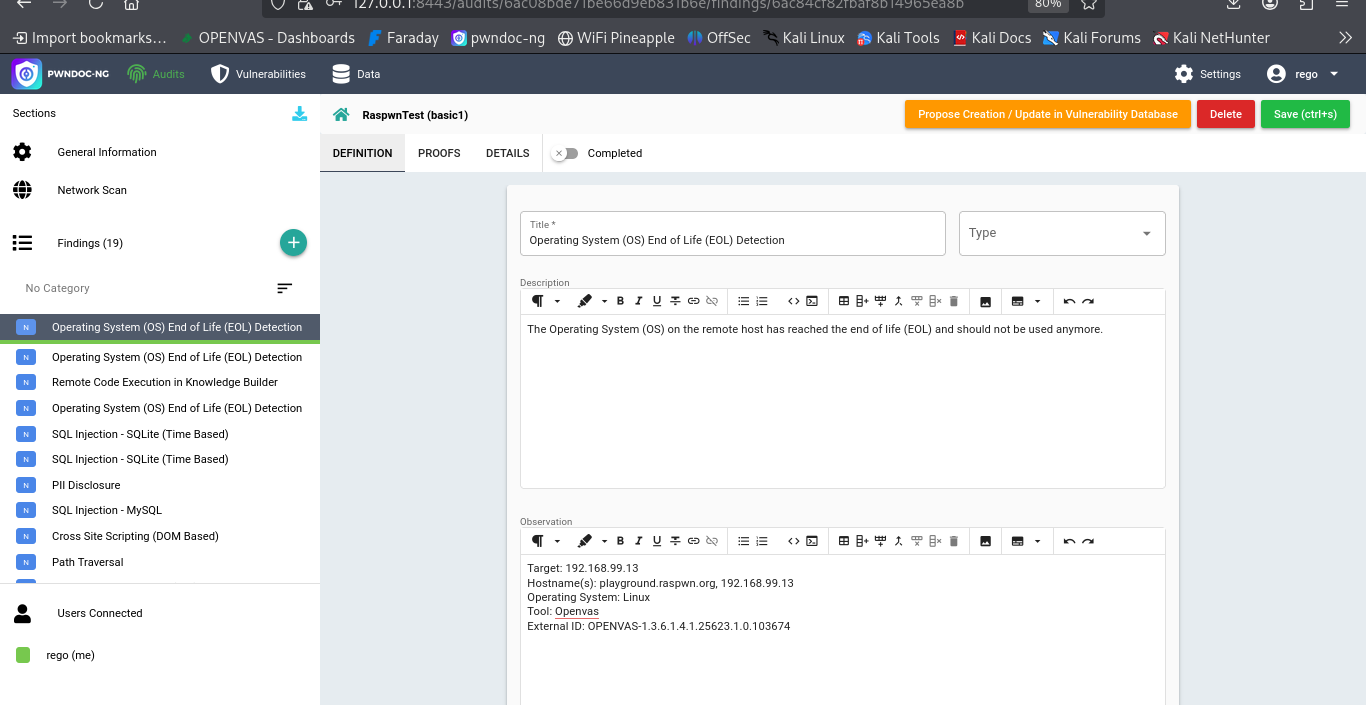
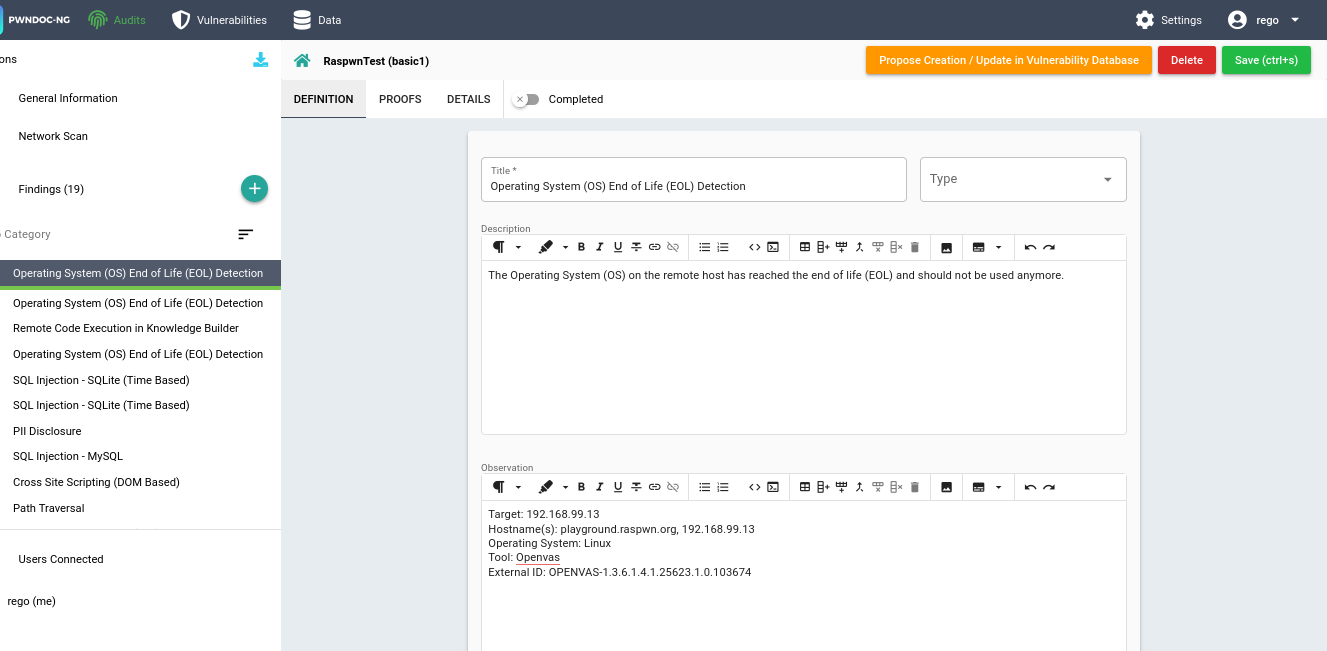
cleanup screenshots. Polish readme markup.

diff --git a/README.md b/README.md
@@ -22,11 +22,11 @@ demonstration.
 - Import your vulnerability scans and findings into FaradayCE.
 ![Faraday Workspace with vulnerabilities](./screenshots/1-faraday-project.png)
 - Update the necessary feilds such as complexity, impact, and http request/header fields.
-![Faraday Vulnerabilities modified](./5-faraday-vulnrefinement.png)
+![Faraday Vulnerabilities modified](./screenshots/5-faraday-vulnrefinement.png)
 ```	NOTE: Evidence fields such as image files in faraday will not translate through API calls. You will need to add these manually in the PWNDOC-NG 'proofs' section
 	NOTE: only CONFIRMED items that are FLAGGED will be sent to PWNDOC-NG documentation```
 - Select the filters to include 'id' in the LAST position, as the CSV parser will use the last CSV field to lookup vuln findings in the Faraday API.
-![Faraday ID field in CSV selection](3-faraday-csv-export-rows-setting.png)
+![Faraday ID field in CSV selection](./screenshots/3-faraday-csv-export-rows-setting.png)
 - Create the appropriate Audit in PWNDOC-NG to recieve the data from Faraday.
 ![Pwndoc-ng Audit Page Image](./screenshots/4-Pwndoc-ng-auditpage.png)
 - Run the FaradayCEtoPWNDOC-ng-ReportGenerator.py script and observe the import of findings to your pwndoc-ng report, confirm import.
